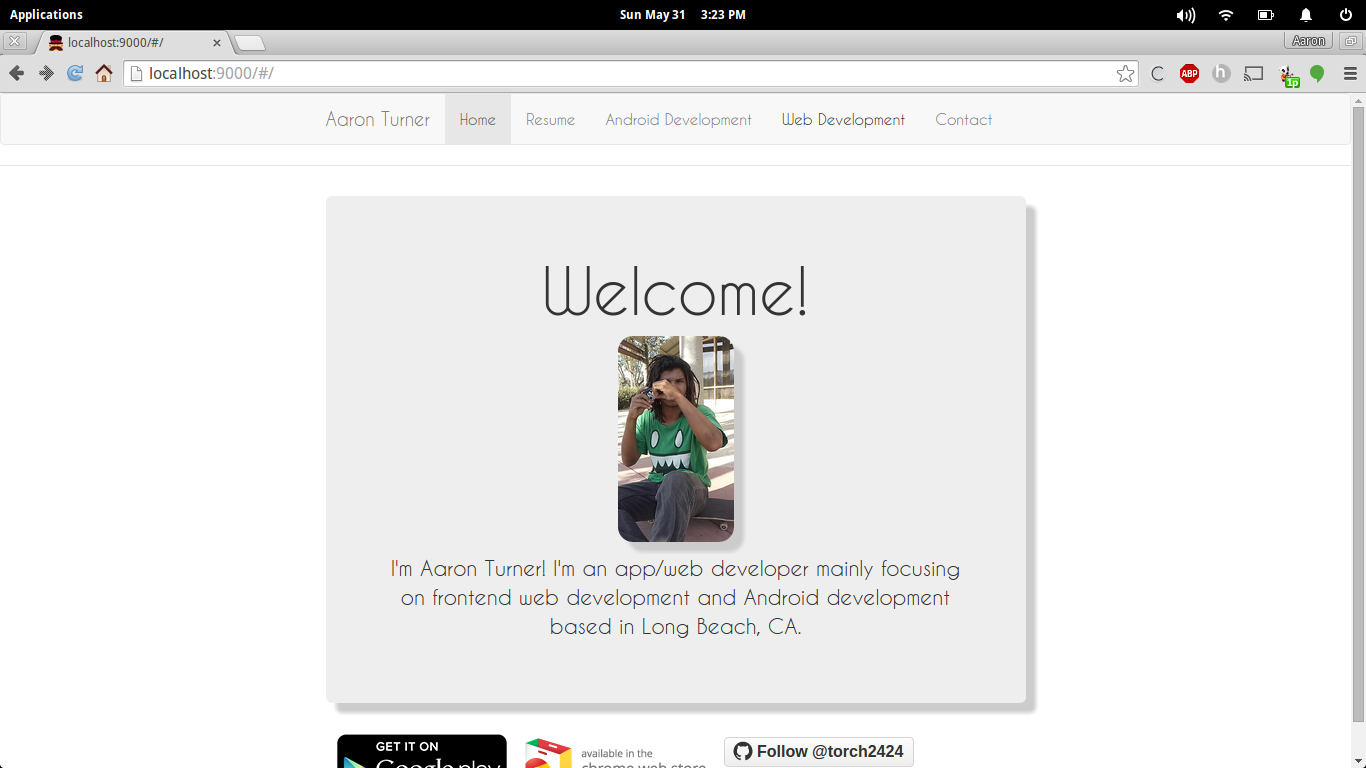
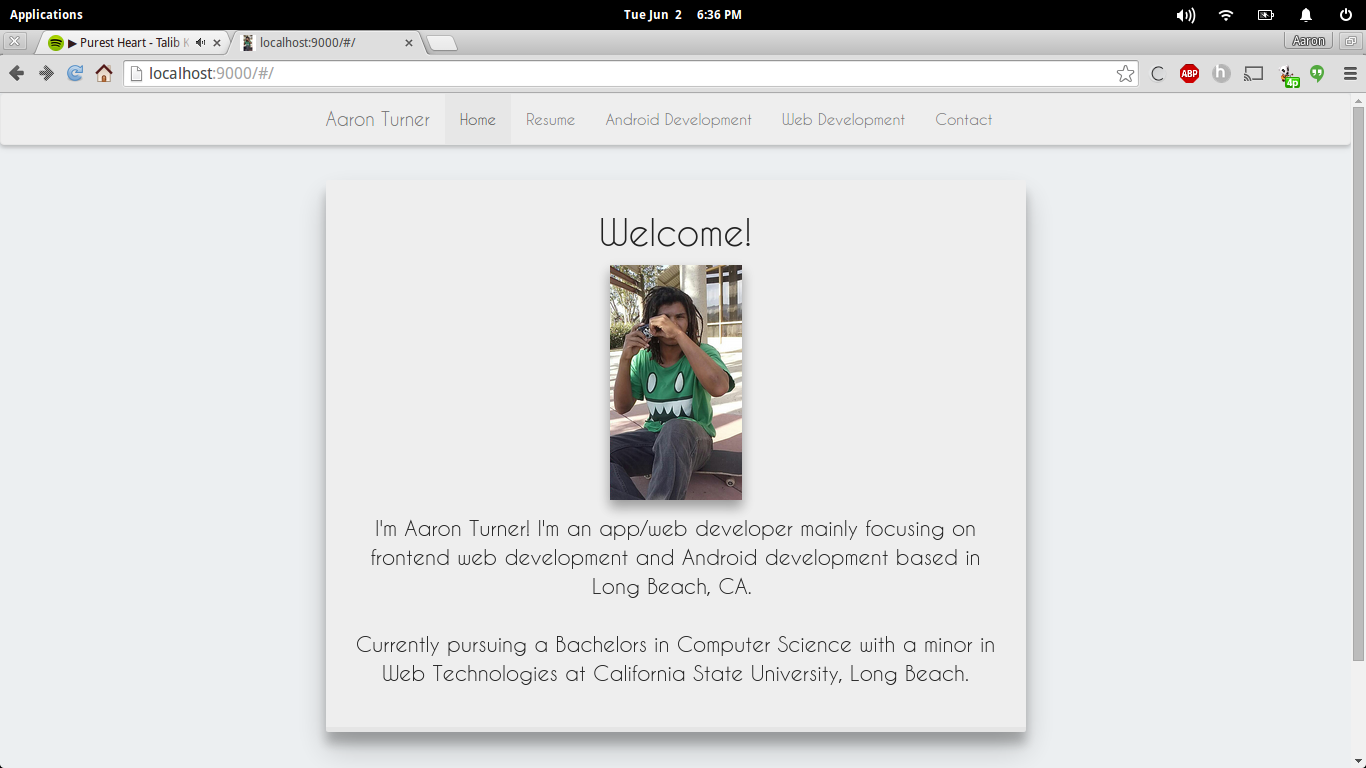
FInished personal site, flows very well,and looks very beautiful

diff --git a/app/styles/main.scss b/app/styles/main.scss
@@ -74,11 +74,55 @@ h2
 /* our navbar */
 .navbar
 {
-    font-size: 1.35em;
+    font-size: 1.5em;
     color: #212121;
 }
 
+/*Links*/
+a
+{
+    color: #42a5f5;
+}
 
+a:visited
+{
+    color: #64b5f6;
+}
+
+/*images*/
+img
+{
+    -webkit-transition: width 2s, height 2s; /* Safari */
+    transition: width 2s, height 2s;
+    transition-timing-function: ease-out;
+}
+
+.home
+{
+    img:hover
+    {
+        height: 60%;
+        width: 30%;
+    }
+}
+
+.app
+{
+    img:hover
+    {
+        height: 100%;
+        width: 75%;
+    }
+}
+
+.project
+{
+    img:hover
+    {
+        height: 75%;
+        width: 95%;
+    }
+}
 
 /* Custom page footer */
 .footer {
@@ -240,6 +284,12 @@ h2
     float:right;
     width: 50%;
     padding-left: 5%;
+  }
+
+  /* our navbar */
+  .navbar
+  {
+      font-size: 1em;
   }
 
 }

diff --git a/app/views/main.html b/app/views/main.html
@@ -1,14 +1,14 @@
 <!-- animation div -->
 <div class="animated fadeIn">
 
-<div class="card-panel grey lighten-3 z-depth-3">
+<div class="home card-panel grey lighten-3 z-depth-3">
   <h1>Welcome!</h1>
   <p class="lead">
     <img class="responsive-img z-depth-2" src="images/MainPic.jpg" alt="Nice to meet you!" height="40%" width="20%"><br>
     I'm Aaron Turner! I'm an app/web developer mainly focusing on frontend web development and Android development based in Long Beach, CA.
     <br>
     <br>
-    Currently pursuing a Bachelors in Computer Science with a minor in Web Technologies at California State University, Long Beach.
+    I'm Currently pursuing a Bachelors in Computer Science with a minor in Web Technologies at California State University, Long Beach.
   </p>
 </div>
 

diff --git a/app/views/webdev.html b/app/views/webdev.html
@@ -44,9 +44,7 @@
       <br>
       <br>
       It was developed using Html, Javascript, J Query, and
-      <a href="http://extensionizr.com/!#{"modules":
-      ["hidden-mode","with-bg","with-persistent-bg","no-options","no-override"],
-      "boolean_perms":[],"match_ptrns":[]}">Extensionizer</a>
+      <a href="http://extensionizr.com/">Extensionizer</a>
     </p>
 </div>
 
